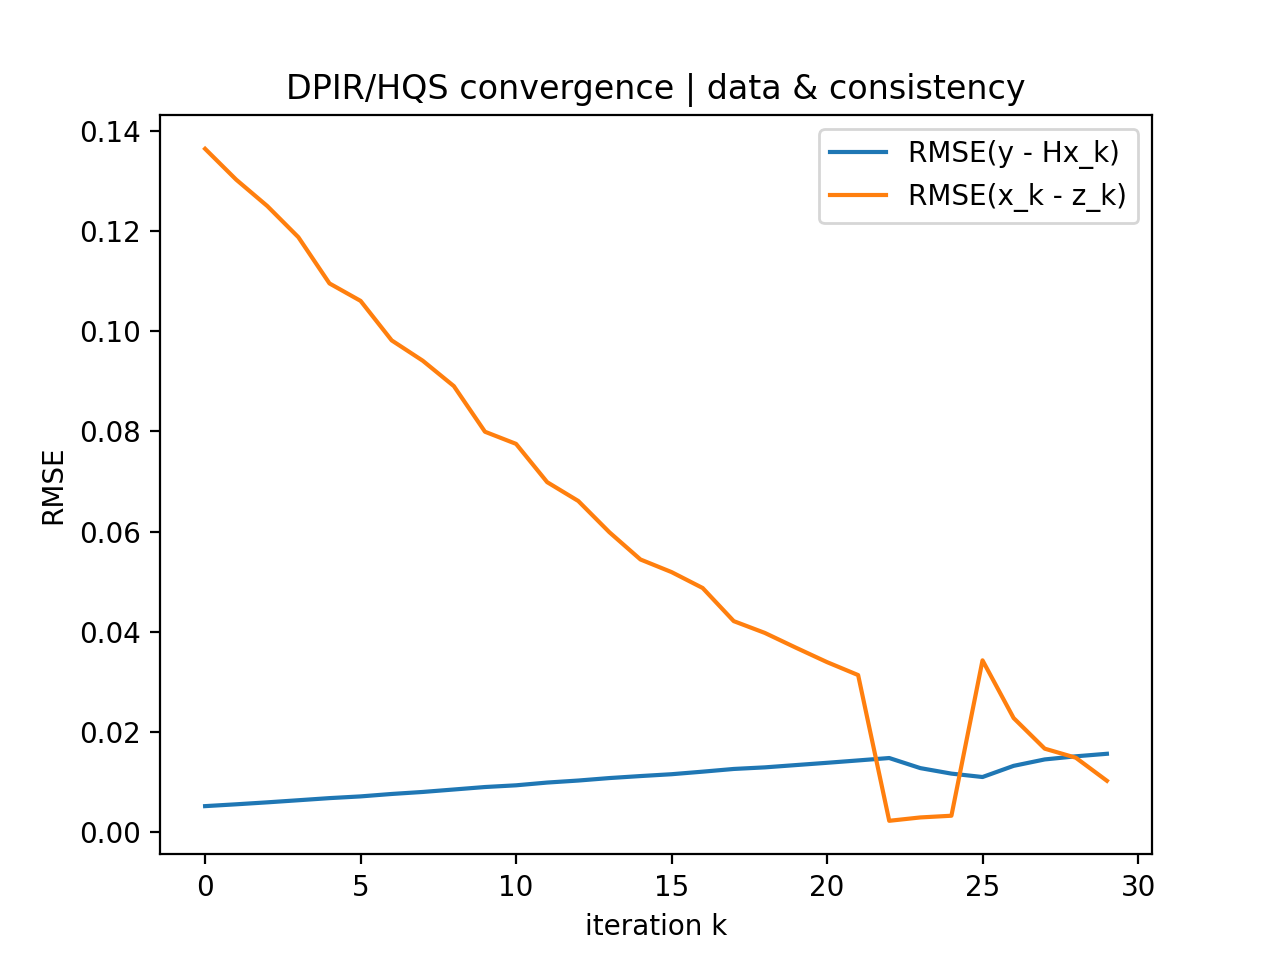
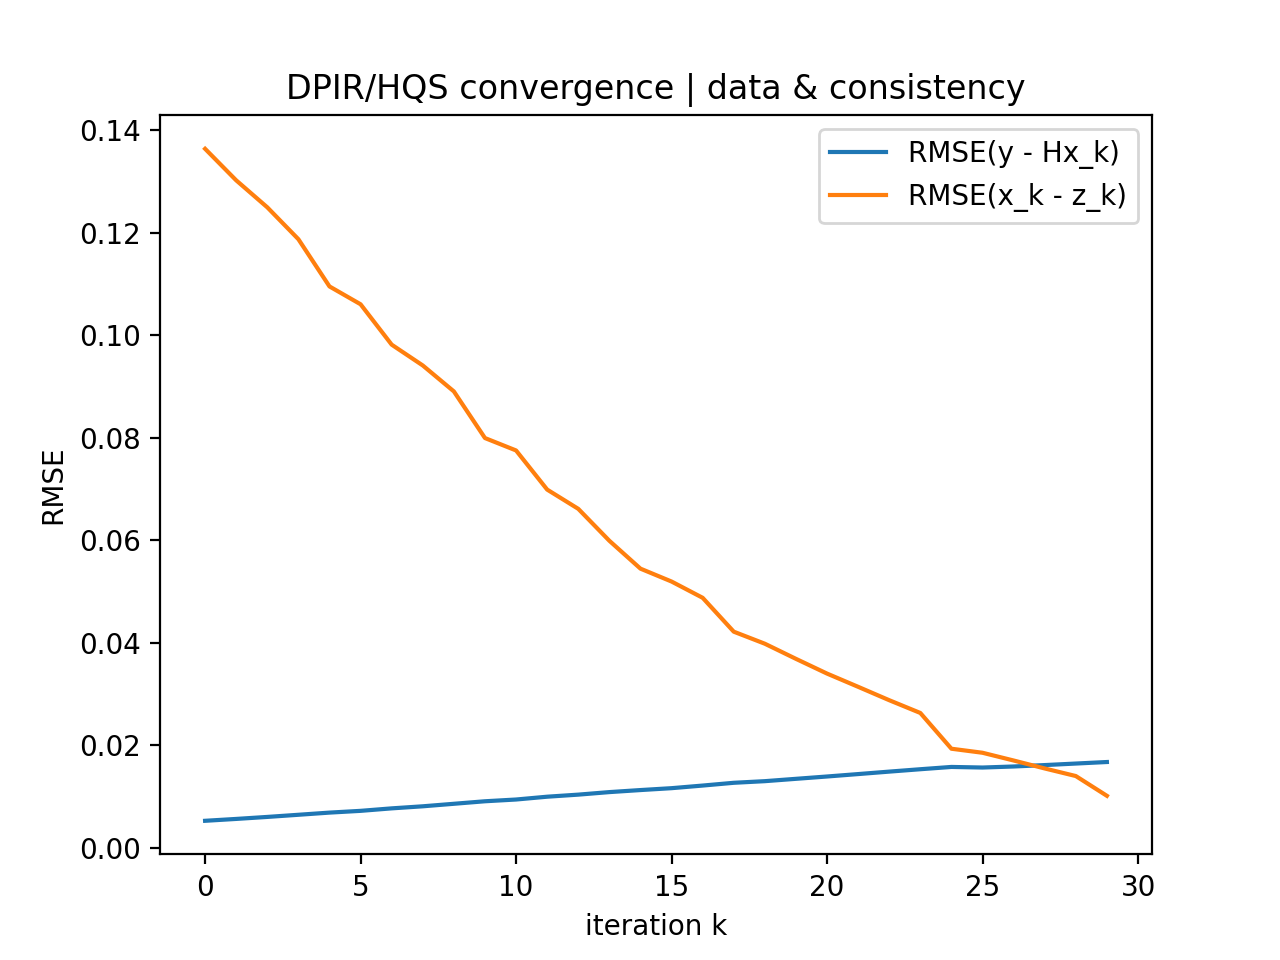
Fix deblur IRCNN

diff --git a/IRCNN_sigmamap/IRCNN_sigmamap_inpainting.py b/IRCNN_sigmamap/IRCNN_sigmamap_inpainting.py
@@ -214,10 +214,10 @@ def dpir_hqs_inpaint(
         csum_z = 0.0
 
     for k in range(iter_num):
-        mu = rhos_t[k].view(1, 1, 1, 1)
+        #mu = rhos_t[k].view(1, 1, 1, 1)
         sigma_k = sigmas[k]
         #print(f"sigma:{sigma_k}")
-        #mu = lambda_pnp/ (sigma_k**2)
+        mu = lambda_pnp/ (sigma_k**2)
         # x-step (fermé pixelwise)
         xk = (M3 * y + mu * z) / (M3 + mu)
         xk = xk.clamp(0, 1)
@@ -228,7 +228,7 @@ def dpir_hqs_inpaint(
             metrics["ssim_x"][k] = ssim_torch(xk, gt)
 
         # z-step
-        sigma_k = float(sigmas[k])
+        sigma_k = float(255.0*sigmas[k])
         z = denoise_sigma_map(model_name, model, xk, sigma=sigma_k)
 
         # enforce known pixels

diff --git a/IRCNN/IRCNN_final.py b/IRCNN/IRCNN_final.py
@@ -106,7 +106,7 @@ class IRCNNModelManager:
     def __init__(self, model_dir, device="cpu"):
         self.model_dir = model_dir
         self.device = device
-        self.available_sigmas = [2*i for i in range(1,26)]   #[2*i for i in range(1,4)]+[2*i for i in range(5,26)]
+        self.available_sigmas = [2*i for i in range(1,26)]  #[2*i for i in range(1,4)]+[2*i for i in range(5,26)]  
         self.model = IRCNNFixed(n_filters=64).to(device)
         self.current_sigma = None
 

diff --git a/IRCNN/IRCNN_courbes_deblur.py b/IRCNN/IRCNN_courbes_deblur.py
@@ -75,9 +75,6 @@ def dpir_hqs_deblur_with_trace(
         # z-step (denoise)
         expert = denoiser.get_expert(sigma_d)
         z = expert.denoise(x).clamp(0, 1)
-        
-        if k in [21, 22, 23]:
-            print(f"Iter {k} | sigma: {sigma_d:.2f}")
 
         # metrics
         Hx = circ_conv_fft(x, otf)
